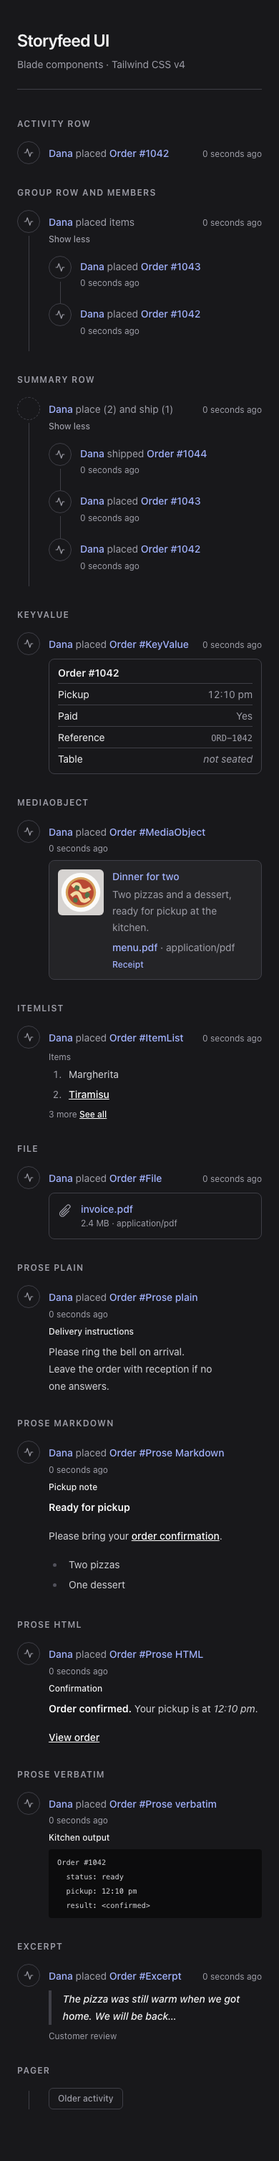
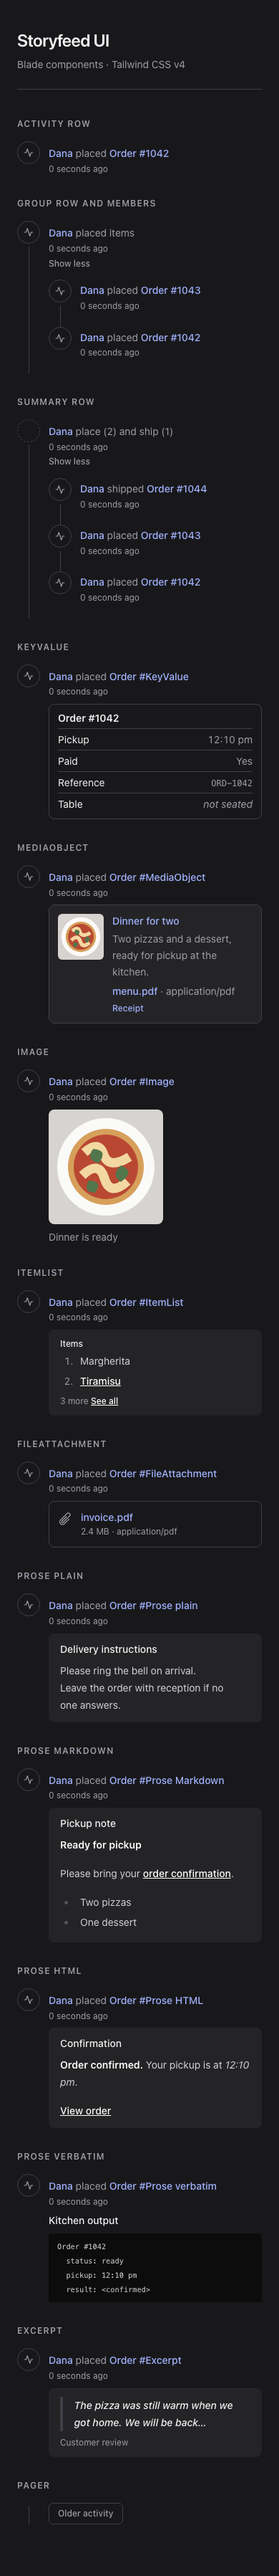
Update workbench fixtures to current core body APIs
Claude-Session: https://claude.ai/code/session_01F4NWPrCYUQxcJr8iGfYrhf

diff --git a/workbench/WorkbenchTest.php b/workbench/WorkbenchTest.php
@@ -2,7 +2,8 @@
 
 use Illuminate\Support\Facades\Blade;
 use Storyfeed\Body\Excerpt;
-use Storyfeed\Body\File;
+use Storyfeed\Body\FileAttachment;
+use Storyfeed\Body\Image;
 use Storyfeed\Body\ItemList;
 use Storyfeed\Body\KeyValue;
 use Storyfeed\Body\MediaObject;
@@ -34,10 +35,11 @@ final class WorkbenchTest extends TestCase
         $sections['Summary row'] = $render(Storyfeed::feed()->summary()->get());
 
         $bodies = [
-            'KeyValue' => KeyValue::make(['Pickup' => '12:10 pm', 'Paid' => true, 'Reference' => KeyValue::verbatim('ORD-1042'), 'Table' => KeyValue::missingAs(null, 'not seated')], title: 'Order #1042'),
-            'MediaObject' => MediaObject::make(subject: FeedLink::make('Dinner for two', '/orders/1042'), content: 'Two pizzas and a dessert, ready for pickup at the kitchen.', footnote: FeedLink::make('Receipt', '/receipts/1042'))->withPreview()->withAttachments(FeedResource::make('/files/menu.pdf', mediaType: 'application/pdf', name: 'menu.pdf')),
+            'KeyValue' => KeyValue::make(['Pickup' => '12:10 pm', 'Paid' => true, 'Reference' => KeyValue::verbatim('ORD-1042'), 'Table' => KeyValue::placeholder(null, 'not seated')], title: 'Order #1042'),
+            'MediaObject' => MediaObject::make(subject: FeedLink::make('Dinner for two', '/orders/1042'), content: 'Two pizzas and a dessert, ready for pickup at the kitchen.', footnote: FeedLink::make('Receipt', '/receipts/1042'))->withPreview()->withFiles(FeedResource::make('/files/menu.pdf', mediaType: 'application/pdf', name: 'menu.pdf')),
+            'Image' => Image::make(caption: 'Dinner is ready', alt: 'A pizza on a plate')->withPreview(),
             'ItemList' => ItemList::ordered(['Margherita', FeedLink::make('Tiramisu', '/menu/tiramisu')], title: 'Items', totalItems: 5, more: FeedLink::make('See all', '/orders/1042')),
-            'File' => File::make(2516582, 'application/pdf', 'invoice.pdf'),
+            'FileAttachment' => FileAttachment::make(2516582, 'application/pdf', 'invoice.pdf'),
             'Prose plain' => Prose::make("Please ring the bell on arrival.\nLeave the order with reception if no one answers.", title: 'Delivery instructions'),
             'Prose Markdown' => Prose::markdown("**Ready for pickup**\n\nPlease bring your [order confirmation](/orders/1042).\n\n- Two pizzas\n- One dessert", title: 'Pickup note'),
             'Prose HTML' => Prose::html('<p><strong>Order confirmed.</strong> Your pickup is at <em>12:10 pm</em>.</p><p><a href="/orders/1042">View order</a></p>', title: 'Confirmation'),
@@ -47,7 +49,7 @@ final class WorkbenchTest extends TestCase
 
         foreach ($bodies as $label => $body) {
             Order::$body = $body;
-            Order::$preview = $label === 'MediaObject' ? FeedImage::make('meal.svg', width: 160, height: 160, alt: 'A pizza on a plate') : null;
+            Order::$preview = in_array($label, ['MediaObject', 'Image'], true) ? FeedImage::make('meal.svg', width: 160, height: 160, alt: 'A pizza on a plate') : null;
             $order = Order::create(['number' => $label]);
             Storyfeed::activity('place', $order)->by($user)->publish();
             $sections[$label] = $render(Storyfeed::feed()->object($order)->log()->get());
